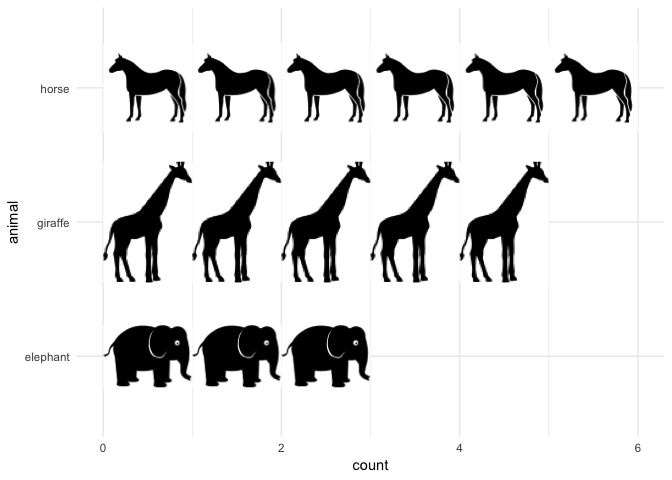
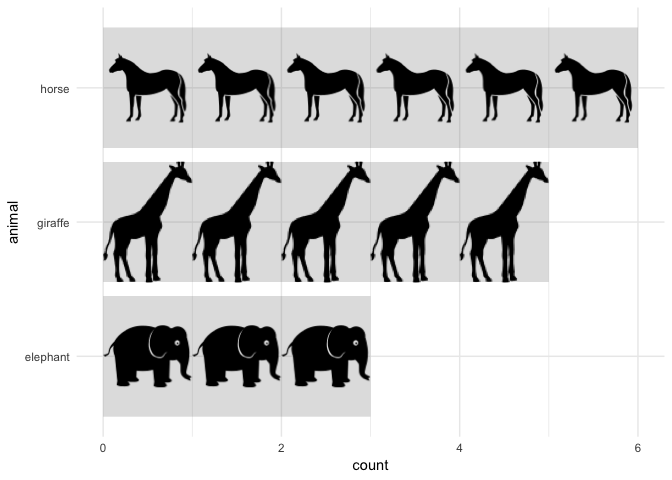
add scales and legends

diff --git a/README.md b/README.md
@@ -26,8 +26,12 @@ Basic example of a textured rectangle drawn with grid:
 ``` r
 library(ggtextures)
 library(grid)
+library(magick)
+#> Linking to ImageMagick 6.9.9.39
+#> Enabled features: cairo, fontconfig, freetype, lcms, pango, rsvg, webp
+#> Disabled features: fftw, ghostscript, x11
 
-img <- magick::image_read("https://jeroen.github.io/images/Rlogo.png")
+img <- image_read("https://jeroen.github.io/images/Rlogo.png")
 
 grid.newpage()
 tg1 <- texture_grob(
@@ -49,7 +53,7 @@ grid.draw(tg2)
 
 <img src="man/figures/README-texture-grob-1.png" width="100%" />
 
-Basic example of textured rectangles in ggplot2:
+This is a basic example of textured rectangles in ggplot2:
 
 ``` r
 library(ggplot2)
@@ -57,37 +61,43 @@ library(tibble)
 
 data <- tibble(
   xmin = c(1, 2.5), ymin = c(1, 1), xmax = c(2, 4), ymax = c(4, 3),
-  image = list("https://jeroen.github.io/images/Rlogo.png",
-               "https://jeroen.github.io/images/tiger.svg")
+  image = list(
+    "https://jeroen.github.io/images/Rlogo.png",
+    image_read_svg("https://jeroen.github.io/images/tiger.svg")
+  )
 )
 
 ggplot(data, aes(xmin = xmin, xmax = xmax, ymin = ymin, ymax = ymax, image = image)) +
-  geom_textured_rect()
+  geom_textured_rect(img_width = unit(1, "in"))
 ```
 
 <img src="man/figures/README-geom-textured-rect-1.png" width="100%" />
+Note that we are reading in the svg file explicitly, using the function
+`image_read_svg()` from the magick package. This is needed for proper
+handling of transparencies in svg files.
 
-Textured equivalent to `geom_col()`:
+We can also make a textured equivalent to `geom_col()` or `geom_bar()`:
 
 ``` r
 df <- tibble(
   trt = c("a", "b", "c"),
   outcome = c(2.3, 1.9, 3.2),
-  image = list("http://www.hypergridbusiness.com/wp-content/uploads/2012/12/rocks2-256.jpg",
-               "http://www.hypergridbusiness.com/wp-content/uploads/2012/12/stone2-256.jpg",
-               "http://www.hypergridbusiness.com/wp-content/uploads/2012/12/siding1-256.jpg")
+  image = c(
+    "http://www.hypergridbusiness.com/wp-content/uploads/2012/12/rocks2-256.jpg",
+    "http://www.hypergridbusiness.com/wp-content/uploads/2012/12/stone2-256.jpg",
+    "http://www.hypergridbusiness.com/wp-content/uploads/2012/12/siding1-256.jpg"
   )
+)
 
 ggplot(df, aes(trt, outcome, image = image)) +
-  geom_textured_col()
+  geom_textured_col(img_width = unit(0.5, "null"))
 ```
 
 <img src="man/figures/README-geom-textured-col-1.png" width="100%" />
 
-Textured equivalent to `geom_bar()`:
-
 ``` r
-image = list(
+
+images = c(
   compact = "http://www.hypergridbusiness.com/wp-content/uploads/2012/12/rocks2-256.jpg",
   midsize = "http://www.hypergridbusiness.com/wp-content/uploads/2012/12/stone2-256.jpg",
   suv = "http://www.hypergridbusiness.com/wp-content/uploads/2012/12/siding1-256.jpg",
@@ -97,19 +107,21 @@ image = list(
   subcompact = "http://www.hypergridbusiness.com/wp-content/uploads/2012/12/concrete1-256.jpg"
 )
 
-mpg$image <- image[mpg$class]
-
-ggplot(mpg, aes(class, image = image)) + geom_textured_bar()
+ggplot(mpg, aes(class, image = class)) +
+  geom_textured_bar() +
+  scale_image_manual(values = images)
 ```
 
-<img src="man/figures/README-geom-textured-bar-1.png" width="100%" />
+<img src="man/figures/README-geom-textured-col-2.png" width="100%" />
 
 ``` r
 
-ggplot(mpg, aes(factor(trans), group = class, image = image)) + geom_textured_bar()
+ggplot(mpg, aes(factor(trans), image = class)) +
+  geom_textured_bar() +
+  scale_image_manual(values = images)
 ```
 
-<img src="man/figures/README-geom-textured-bar-2.png" width="100%" />
+<img src="man/figures/README-geom-textured-col-3.png" width="100%" />
 
 Isotype bars can be drawn with `geom_isotype_bar()` and
 `geom_isotype_col()`. The units of the images are set as grid native
@@ -120,9 +132,9 @@ data <- tibble(
   count = c(5, 3, 6),
   animal = c("giraffe", "elephant", "horse"),
   image = list(
-    "http://steveharoz.com/research/isotype/icons/giraffe.svg",
-    "http://steveharoz.com/research/isotype/icons/elephant.svg",
-    "http://steveharoz.com/research/isotype/icons/horse.svg"
+    image_read_svg("http://steveharoz.com/research/isotype/icons/giraffe.svg"),
+    image_read_svg("http://steveharoz.com/research/isotype/icons/elephant.svg"),
+    image_read_svg("http://steveharoz.com/research/isotype/icons/horse.svg")
   )
 )
 
@@ -138,7 +150,7 @@ ggplot(data, aes(animal, count, image = image)) +
 ggplot(data, aes(animal, count, image = image)) +
   geom_isotype_col(
     img_width = grid::unit(1, "native"), img_height = NULL,
-    ncol = NA, nrow = 1, hjust = 0, vjust = 0.5
+    ncol = NA, nrow = 1, hjust = 0, vjust = 0.5, fill = "#80808040"
   ) +
   coord_flip() +
   theme_minimal()
